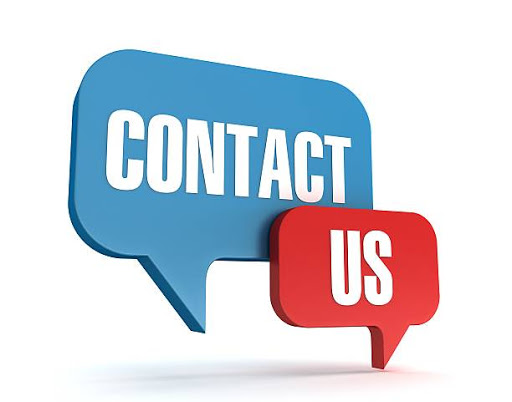
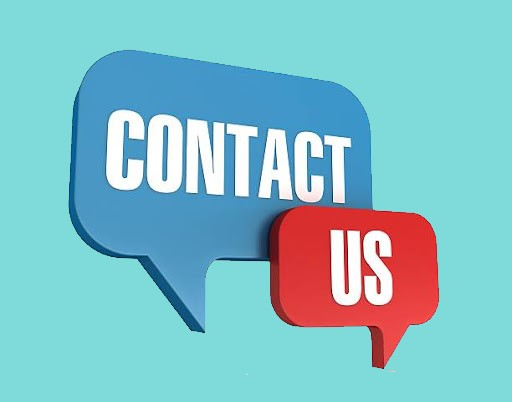
Done With The Contact Page

diff --git a/contact.html b/contact.html
@@ -27,10 +27,12 @@
         <div class="container">
             <div class="row">
                 <div class="col-lg-6">
-                    Hello
+                    <div class="mt-5">
+                        <img src="images/contact.jpg" alt="">
+                    </div>
                 </div>
-                <div class="col-lg-6">
-                    <section class="card mt-5 pb-5 pr-5 pl-5 text-center">
+                <div class="col-lg-6 col-md-12">
+                    <section class="card pb-5 pr-5 pl-5 text-center">
                         <h1 class="mt-5">Contact Us<br>
                             <span><h3>Help us make the world a better place</h3></span>
                         </h1>
@@ -59,6 +61,12 @@
                 </div>
             </div>
         </div>
+        
+        <!-- Optional JavaScript -->
+        <!-- jQuery first, then Popper.js, then Bootstrap JS -->
+        <script src="https://code.jquery.com/jquery-3.5.1.slim.min.js" integrity="sha384-DfXdz2htPH0lsSSs5nCTpuj/zy4C+OGpamoFVy38MVBnE+IbbVYUew+OrCXaRkfj" crossorigin="anonymous"></script>
+        <script src="https://cdn.jsdelivr.net/npm/popper.js@1.16.0/dist/umd/popper.min.js" integrity="sha384-Q6E9RHvbIyZFJoft+2mJbHaEWldlvI9IOYy5n3zV9zzTtmI3UksdQRVvoxMfooAo" crossorigin="anonymous"></script>
+        <script src="https://stackpath.bootstrapcdn.com/bootstrap/4.5.0/js/bootstrap.min.js" integrity="sha384-OgVRvuATP1z7JjHLkuOU7Xw704+h835Lr+6QL9UvYjZE3Ipu6Tp75j7Bh/kR0JKI" crossorigin="anonymous"></script>
     </body>
 </html>
 

diff --git a/styles/contact-style.css b/styles/contact-style.css
@@ -12,55 +12,3 @@ body{
 .card {
     background: rgba(237, 230, 130, 0.4);
 }
-
-@media only screen and (max-width:1024px){
-    header{
-        width: 100%;
-        padding: 10px 0px 10px 10px;
-    }
-
-    section{
-        background: white;
-        display: flex;
-        flex-direction: column;
-        align-items: center;
-        justify-content: center;
-        width: 80%;
-        margin-left: 10%;
-        height: auto;
-        margin-top: 80px;
-        -webkit-box-shadow: 0 10px 6px -6px #777;
-        -moz-box-shadow: 0 10px 6px -6px #777;
-        box-shadow: 0 10px 6px -6px #777;
-        border-radius: 10px;
-        margin-bottom: 20px;
-    }
-    
-    section h1{
-        font-size: 120%;
-        color: #febf63;
-        text-align: center;
-    }
-    
-    section h3{
-        font-size: 100%;
-    }
-
-    .contacts{
-        display: flex;
-        flex-direction: column;
-        align-items: center;
-        justify-content: center;
-        background: transparent;
-        width: 90%;
-        padding: 20px;
-        color: #febf63;
-        text-align : center;
-    }
-    
-    .contacts p{
-        color: #ede682;
-        font-size: small;
-    }
-    
-}
